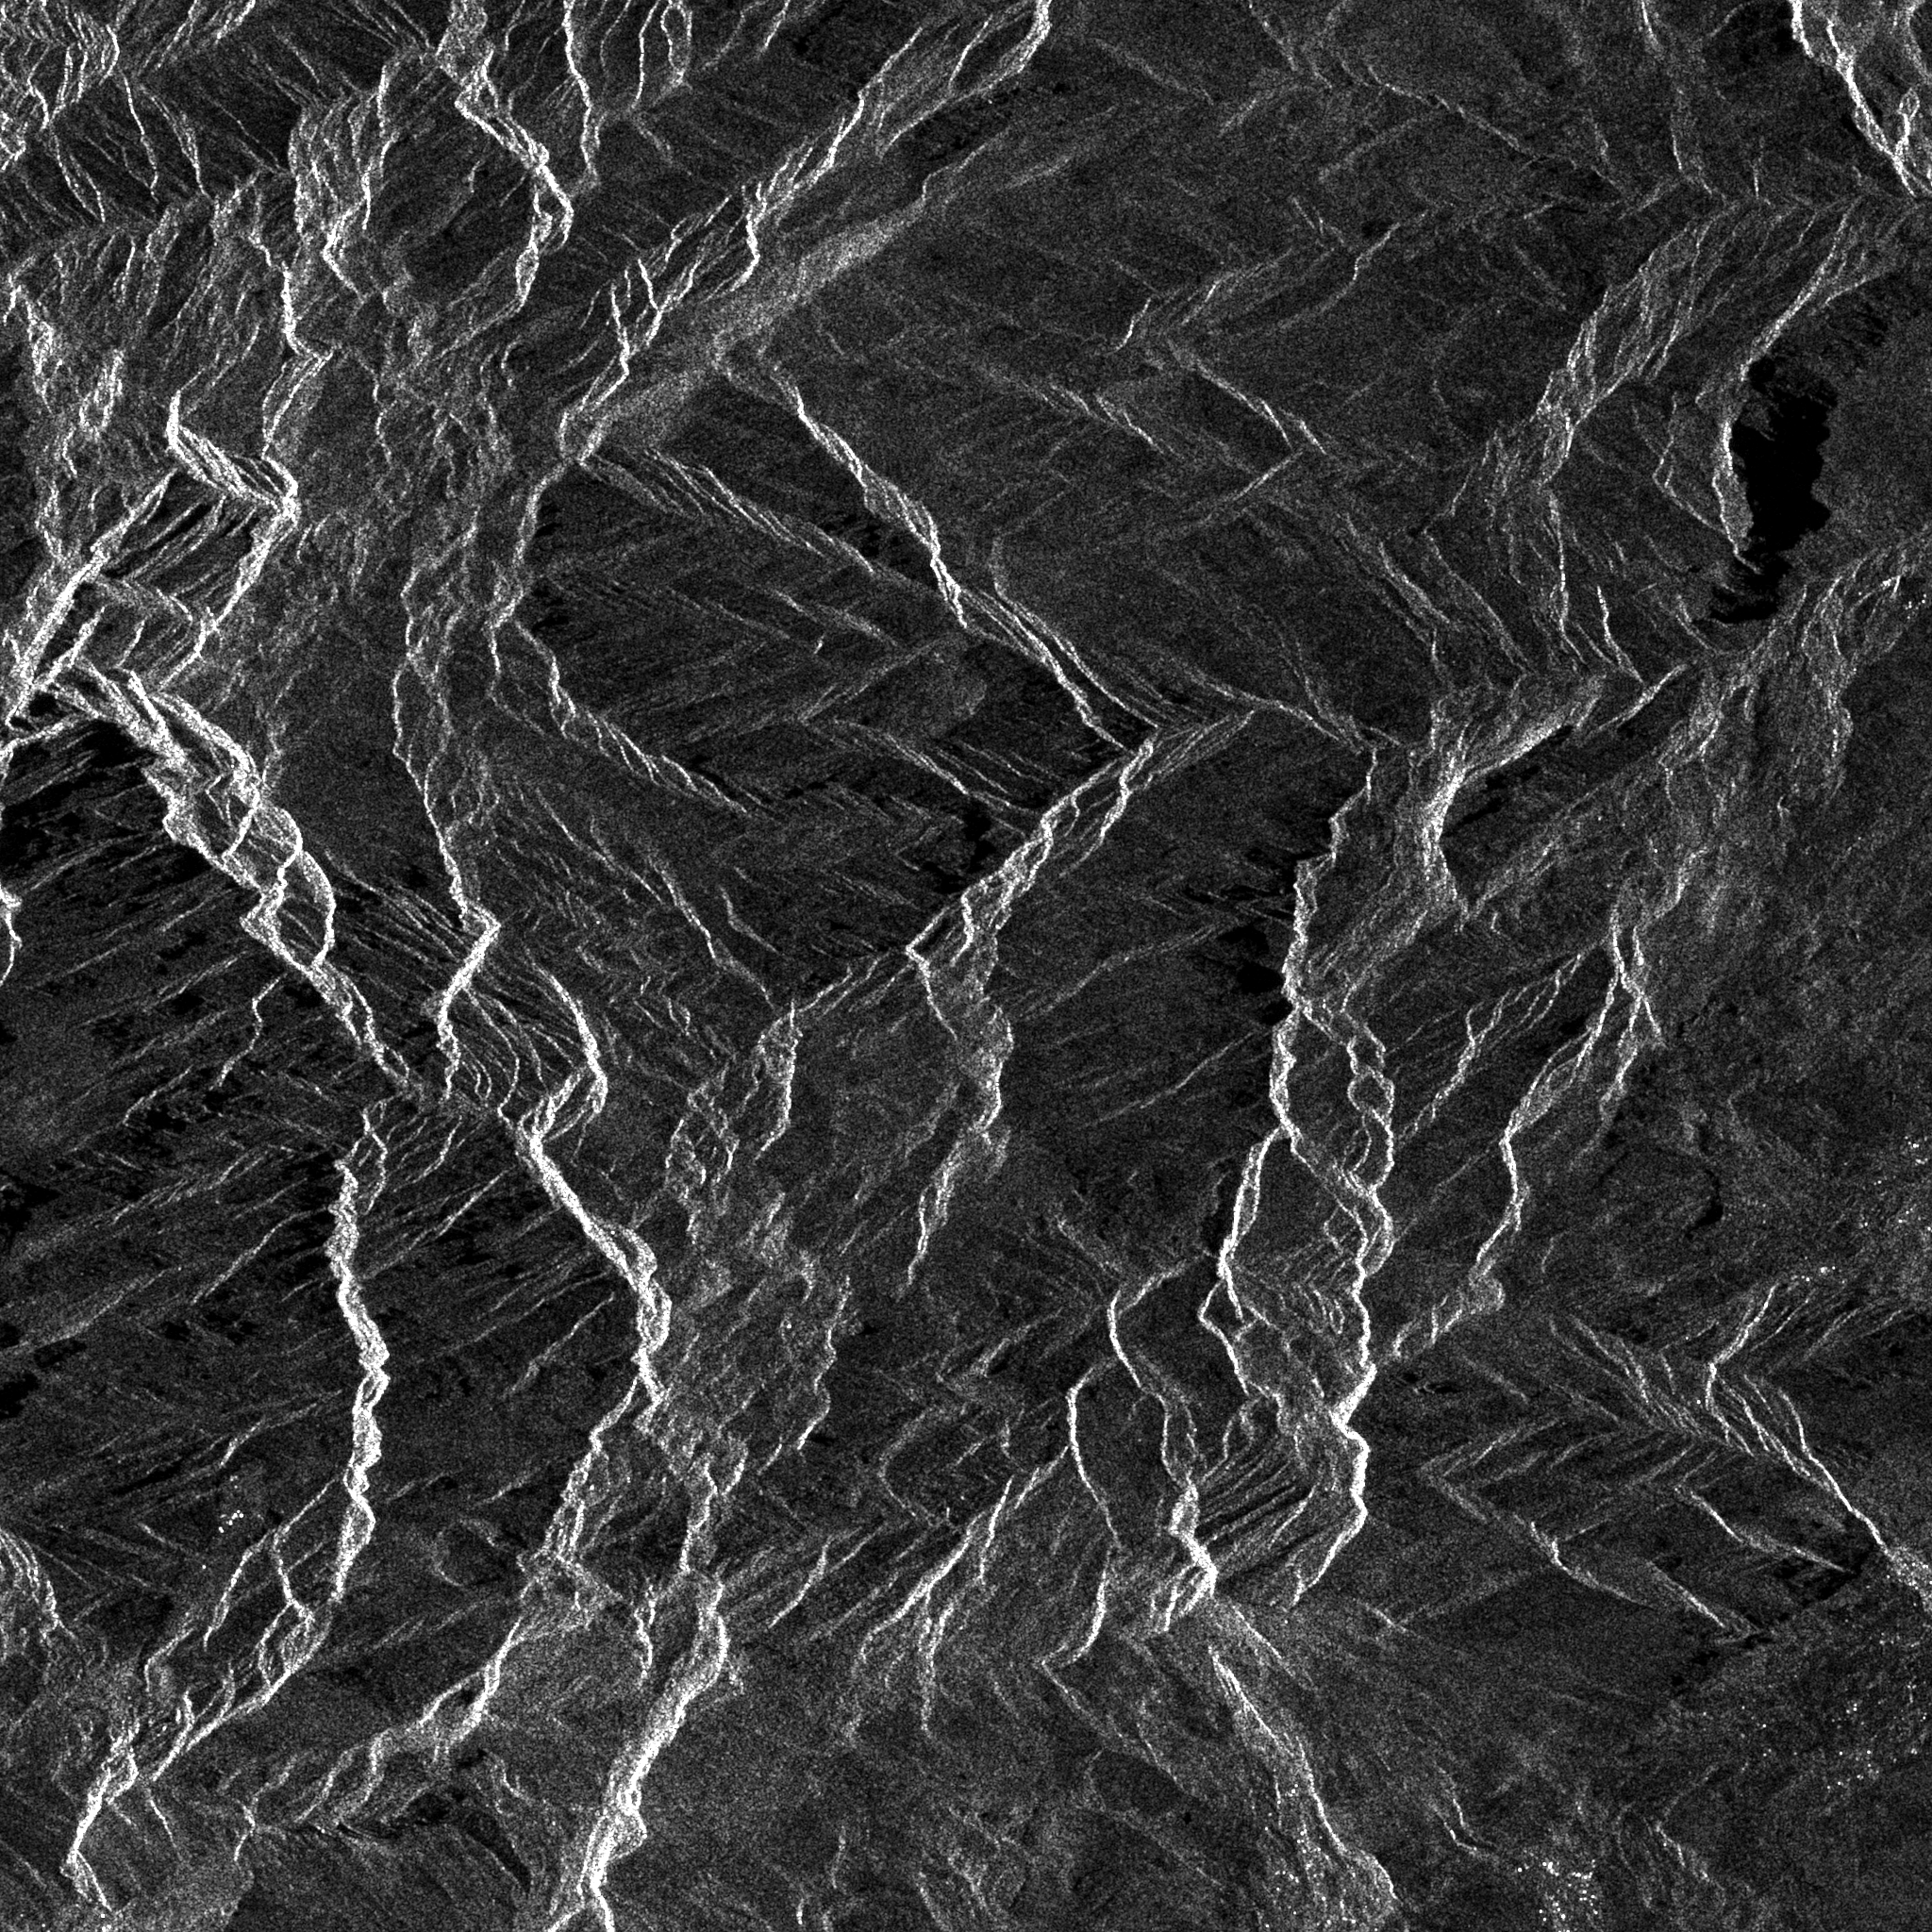
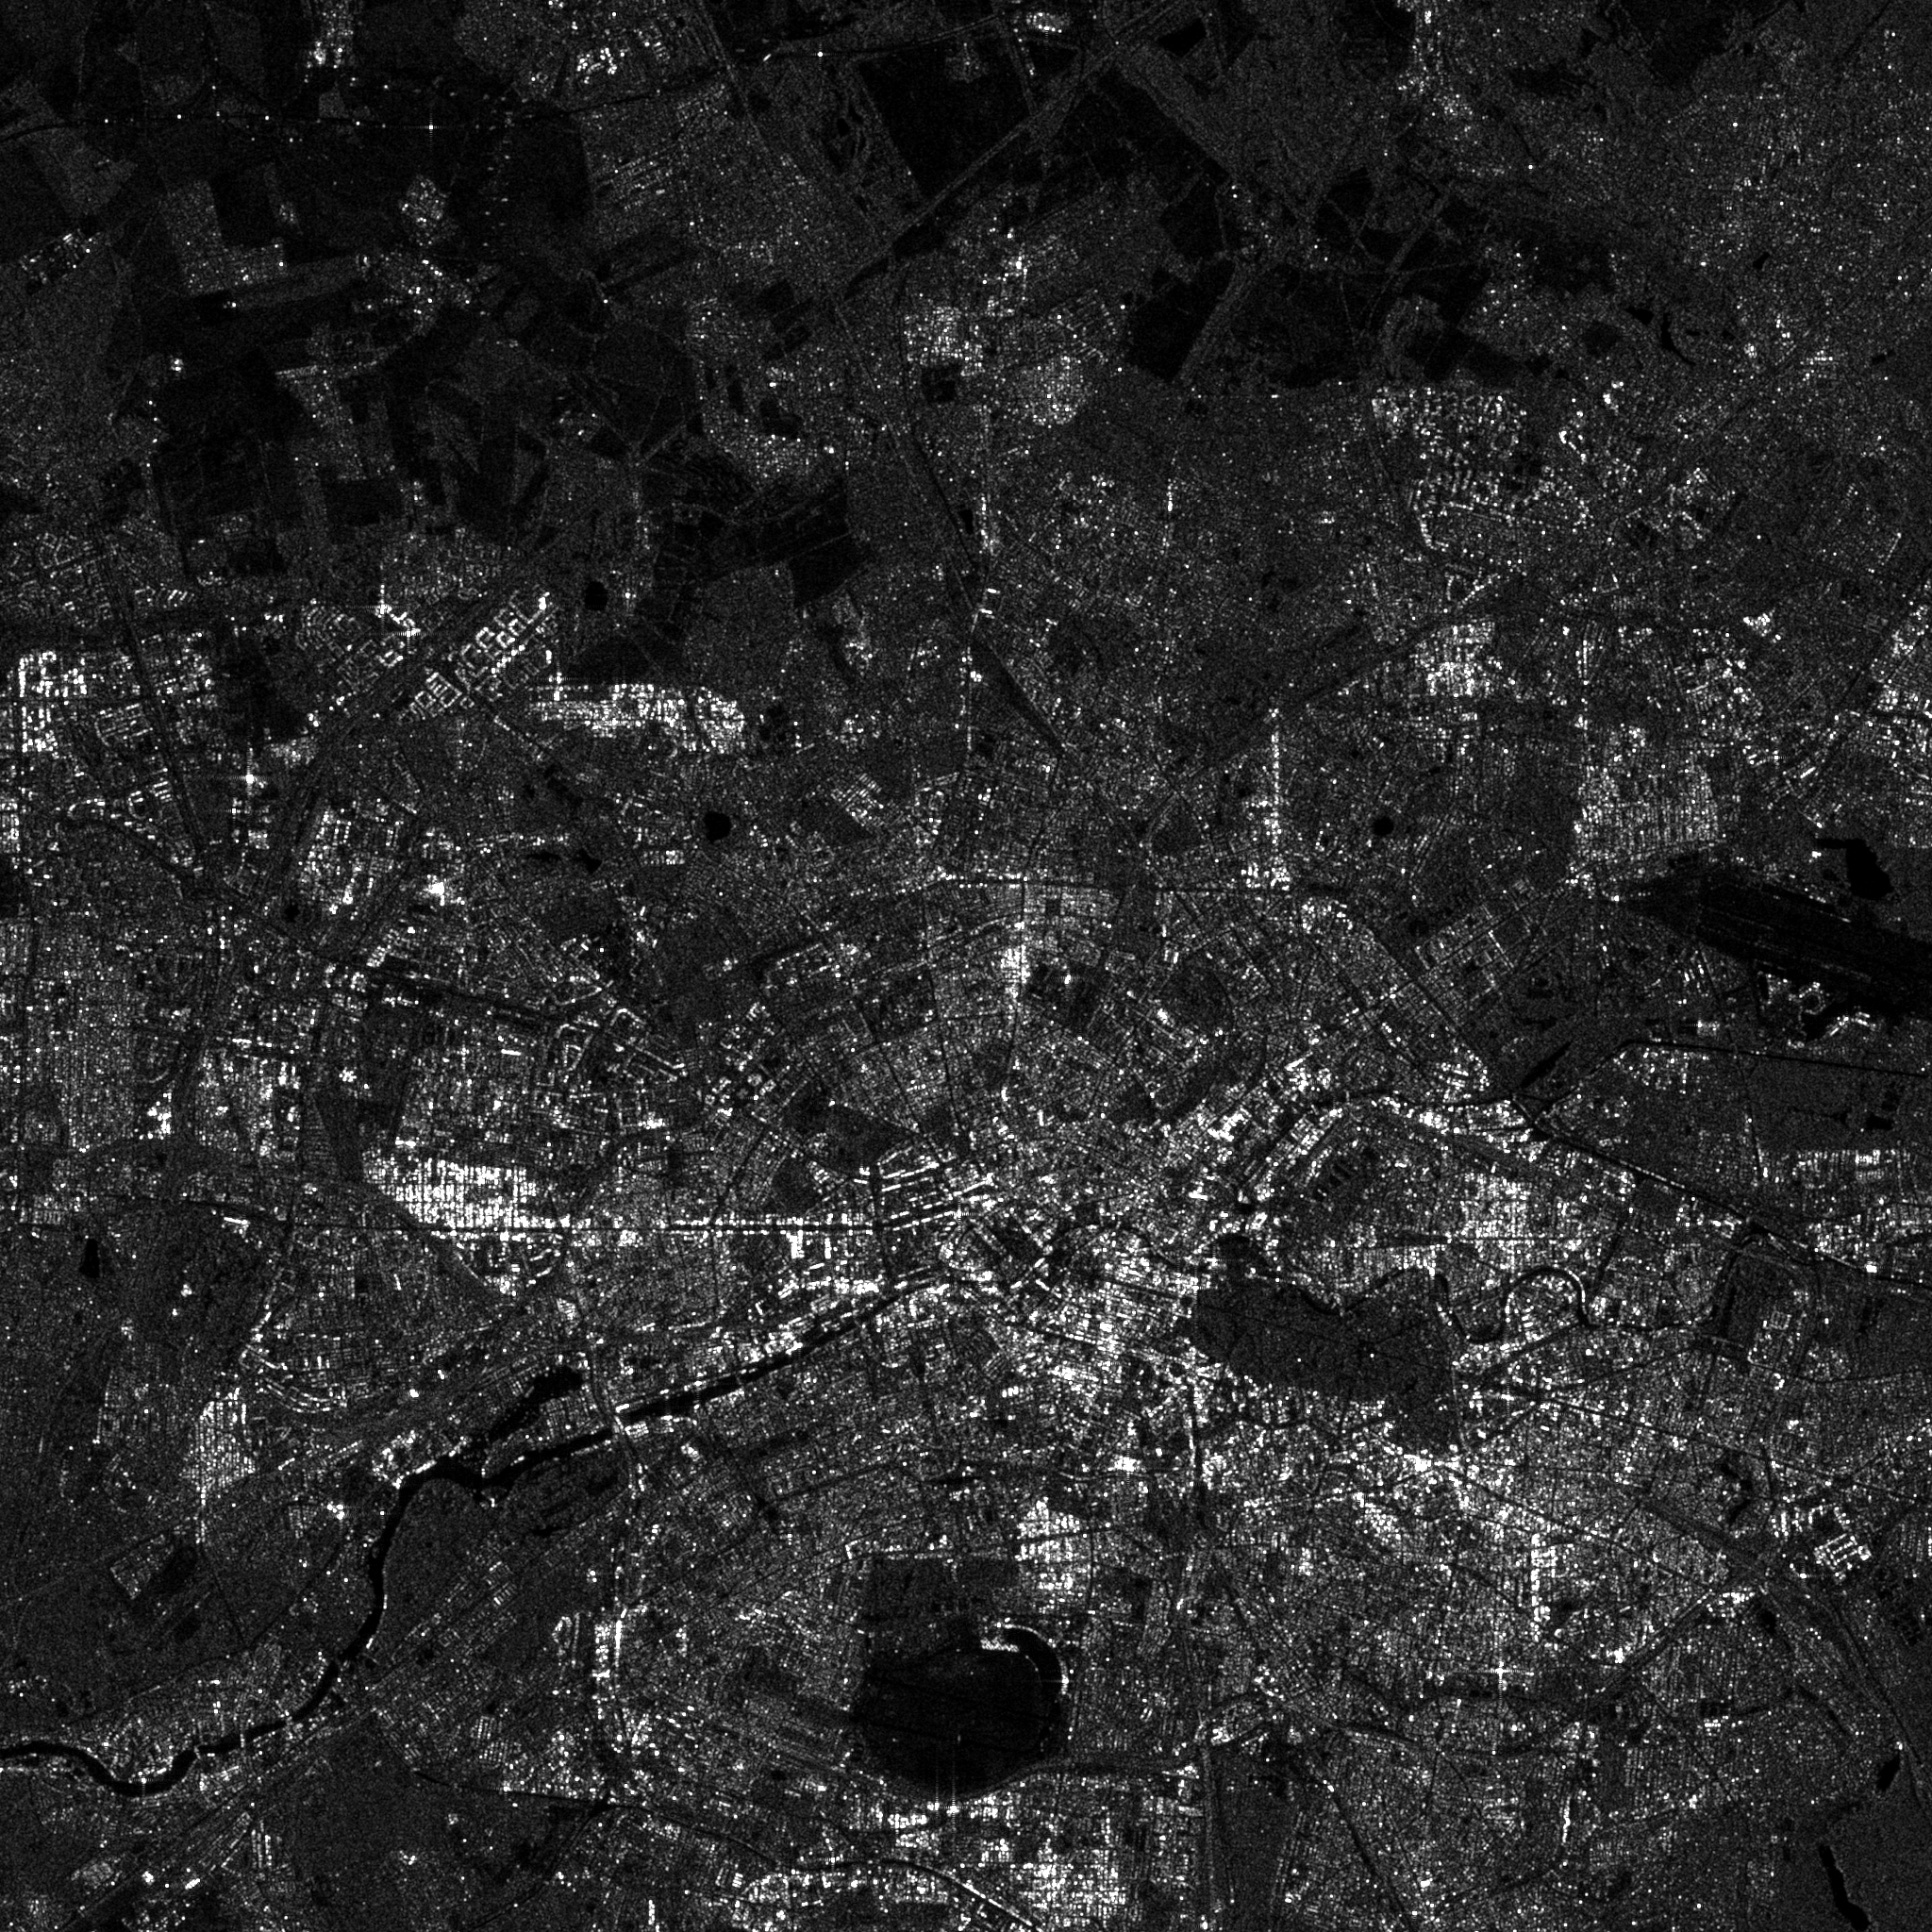
lee filter adjusted

diff --git a/scripts/outputImage.py b/scripts/outputImage.py
@@ -9,6 +9,148 @@ from PIL import Image
 Image.MAX_IMAGE_PIXELS = None
 
 
+def print_diff_statistics(
+    name: str,
+    original: np.ndarray,
+    filtered: np.ndarray,
+) -> None:
+    """
+    Prints numeric proof of what a filter actually changed, independent
+    of how the images get displayed. This matters because a filter can
+    be working correctly while still being nearly invisible in a
+    downscaled thumbnail (browser-rendered PNGs at a fraction of their
+    native resolution erase single-pixel differences through
+    anti-aliasing) or in a heavily textured crop (an adaptive speckle
+    filter is *designed* to leave strong texture/edges alone).
+    """
+    original_float = original.astype(np.float64)
+    filtered_float = filtered.astype(np.float64)
+
+    diff = np.abs(original_float - filtered_float)
+
+    changed_fraction = (diff > 1e-6).mean()
+
+    print(f"\n{name} vs original -- pixel-level difference:")
+    print(f"  Mean absolute difference:   {diff.mean():.4f}")
+    print(f"  Max absolute difference:    {diff.max():.4f}")
+    print(f"  Fraction of pixels changed: {changed_fraction:.1%}")
+
+    if diff.mean() < 1e-6:
+        print("  WARNING: filter appears to have made no change at all to this crop.")
+
+
+def create_difference_image(
+    original: np.ndarray,
+    filtered: np.ndarray,
+) -> np.ndarray:
+    """
+    Builds a contrast-stretched visualization of |original - filtered|.
+
+    This directly visualizes what a filter removed, which stays visible
+    even when the filtered image looks nearly identical to the original
+    at thumbnail scale -- the removed noise itself becomes the image.
+    """
+    diff = np.abs(
+        original.astype(np.float32) - filtered.astype(np.float32)
+    )
+
+    low, high = np.percentile(diff, [1, 99.5])
+
+    if high <= low:
+        high = low + 1.0
+
+    normalized = (diff - low) / (high - low)
+    normalized = np.clip(normalized, 0.0, 1.0)
+
+    return (normalized * 255.0).astype(np.uint8)
+
+
+def save_difference_maps(
+    path: Path,
+    gaussian_diff: np.ndarray,
+    lee_diff: np.ndarray,
+) -> None:
+    """
+    Saves a side-by-side figure of what each filter actually removed.
+    """
+    path.parent.mkdir(parents=True, exist_ok=True)
+
+    figure, axes = plt.subplots(1, 2, figsize=(12, 6))
+
+    axes[0].imshow(gaussian_diff, cmap="inferno")
+    axes[0].set_title("Removed by Gaussian Filter\n(|original - filtered|)")
+    axes[0].axis("off")
+
+    axes[1].imshow(lee_diff, cmap="inferno")
+    axes[1].set_title("Removed by Lee Filter\n(|original - filtered|)")
+    axes[1].axis("off")
+
+    figure.tight_layout()
+    figure.savefig(path, dpi=300, bbox_inches="tight")
+    plt.close(figure)
+
+    print(f"Saved: {path}")
+
+
+def extract_zoom_region(
+    crop: np.ndarray,
+    zoom_size: int = 300,
+) -> np.ndarray:
+    """
+    Extracts a small region from the center of a larger crop, for
+    genuinely close pixel-level inspection.
+
+    A 2048x2048 preview PNG typically gets rendered by a browser at a
+    few hundred pixels wide inside a README table, which erases
+    single-pixel speckle differences through downsampling. A much
+    smaller crop, displayed at or near its native size, does not have
+    this problem.
+    """
+    height, width = crop.shape[:2]
+
+    zoom_height = min(zoom_size, height)
+    zoom_width = min(zoom_size, width)
+
+    start_y = (height - zoom_height) // 2
+    start_x = (width - zoom_width) // 2
+
+    return crop[
+        start_y:start_y + zoom_height,
+        start_x:start_x + zoom_width,
+    ]
+
+
+def save_zoom_comparison(
+    path: Path,
+    original: np.ndarray,
+    gaussian: np.ndarray,
+    lee: np.ndarray,
+) -> None:
+    """
+    Same idea as save_comparison(), but for a small, tightly zoomed
+    region, displayed with nearest-neighbor upscaling so individual
+    pixels are actually visible rather than blurred by resizing.
+    """
+    path.parent.mkdir(parents=True, exist_ok=True)
+
+    figure, axes = plt.subplots(1, 3, figsize=(15, 5))
+
+    for axis, image, title in zip(
+        axes,
+        [original, gaussian, lee],
+        ["Original (zoom)", "Gaussian Filter (zoom)", "Lee Filter (zoom)"],
+    ):
+        axis.imshow(image, cmap="gray", vmin=0, vmax=255, interpolation="nearest")
+        axis.set_title(title)
+        axis.axis("off")
+
+    figure.tight_layout()
+    figure.savefig(path, dpi=300, bbox_inches="tight")
+    plt.close(figure)
+
+    print(f"Saved: {path}")
+
+
 def find_original_tiff(data_dir: Path) -> Path:
     """
     Finds a TIFF file inside the data directory.
@@ -469,6 +611,44 @@ def main() -> None:
             original_crop_display,
             gaussian_crop_display,
             lee_crop_display,
+        )
+
+        # ------------------------------------------------------------
+        # Numeric proof that the filters actually changed pixels,
+        # independent of how visible that is in a downscaled thumbnail.
+        # ------------------------------------------------------------
+        print_diff_statistics("Gaussian", original_crop_raw, gaussian_crop_raw)
+        print_diff_statistics("Lee", original_crop_raw, lee_crop_raw)
+
+        # ------------------------------------------------------------
+        # Difference maps: what each filter actually removed. Stays
+        # visible even when the filtered image looks nearly identical
+        # to the original at thumbnail scale.
+        # ------------------------------------------------------------
+        gaussian_diff = create_difference_image(original_crop_raw, gaussian_crop_raw)
+        lee_diff = create_difference_image(original_crop_raw, lee_crop_raw)
+
+        save_difference_maps(
+            results_dir / "difference_maps.png",
+            gaussian_diff,
+            lee_diff,
+        )
+
+        # ------------------------------------------------------------
+        # Zoomed-in crop: a 2048x2048 PNG gets rendered at a few hundred
+        # pixels wide in a README table, which erases single-pixel
+        # speckle differences through downsampling. This small region,
+        # shown near its native size, does not have that problem.
+        # ------------------------------------------------------------
+        zoom_original = extract_zoom_region(original_crop_display)
+        zoom_gaussian = extract_zoom_region(gaussian_crop_display)
+        zoom_lee = extract_zoom_region(lee_crop_display)
+
+        save_zoom_comparison(
+            results_dir / "zoom_comparison.png",
+            zoom_original,
+            zoom_gaussian,
+            zoom_lee,
         )
     else:
         print("Skipping the 3-panel comparison figure since the Lee output is missing.")